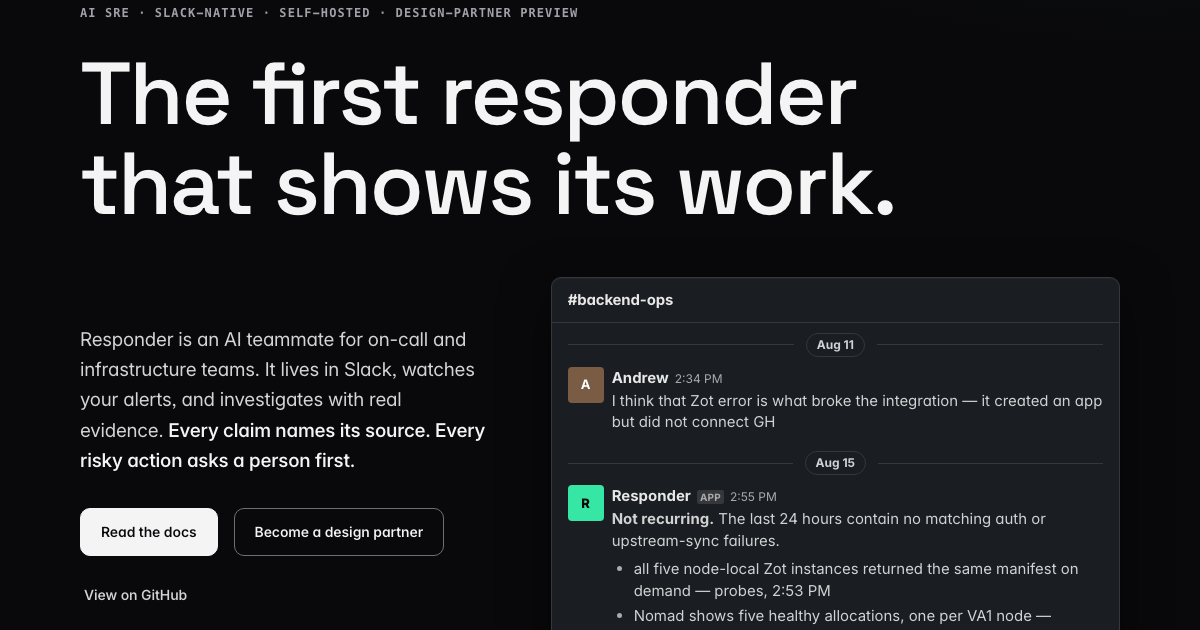
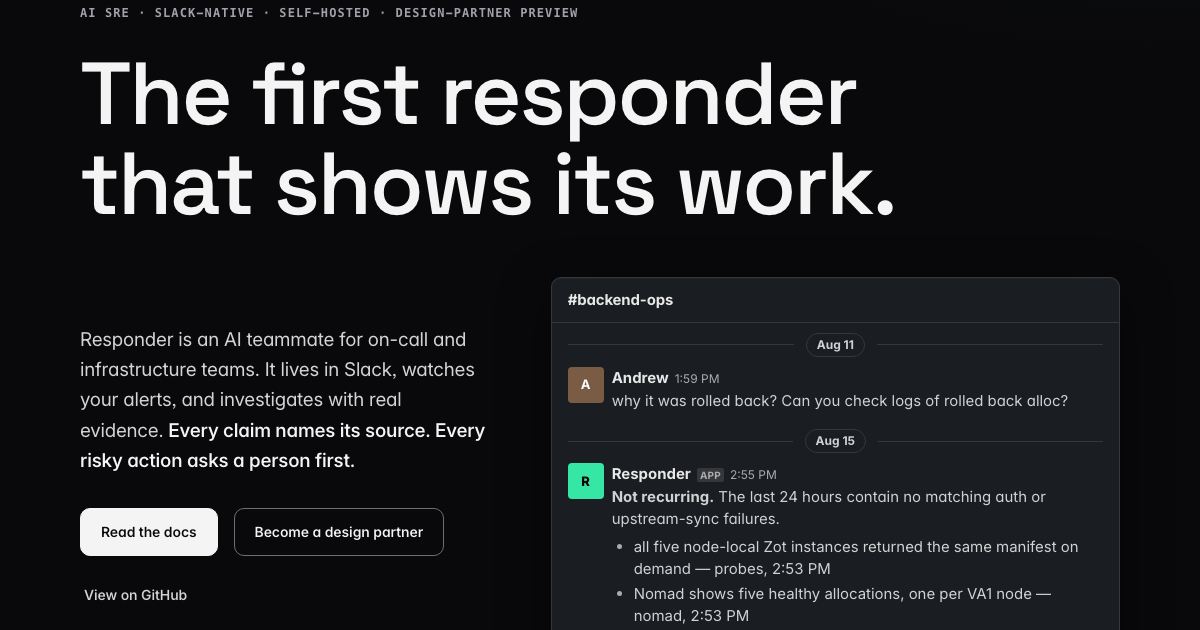
The story starts where the operator said it starts
The client pointed at the thread's actual root — the Slack permalink
for the rollback in backend-ops — and the record filled in a better
arc than the one shipped an hour ago. It opens with a deploy rolling
back and nobody knowing why; a cc pointing at the notice above the
thread (which Responder reads, because threads point at things); the
first ask at 1:59 PM and an answer honest enough to explain why there
are no logs at all. The humans chase a timeout, the CI build, static
analysis — all true, none the cause — until "Run a deep investigation
into this and find the root cause" catches the registry lying: a
misleading manifest-unknown 404 hiding "unauthorized access. check
credentials", with the one thing the evidence could not settle said
out loud. "Prepare PR to fix it" becomes draft PR #526 in minutes,
scoped so a healthy-looking readiness check can never hide this
failure again. And the three verification checks are no longer
"unprompted" — the operator asked for them in one line, which is both
the truth and the better story: one sentence became three scheduled
episodes and a four-day-later "not recurring."

Two invented attributions died in this commit: the teammate's quotes
moved to prose because their name is not ours to guess, and the
frame-note stopped claiming the machine doubted itself unasked.

Changed region(s): [[0.4625, 0.7238, 0.8942, 0.9952], [0.4933, 0.573, 0.925, 0.6937], [0.6783, 0.6937, 0.7092, 0.754]]

diff --git a/site/index.html b/site/index.html
@@ -79,7 +79,7 @@
              colors, carrying the exchange the whole page is about. The page
              annotates it from outside; inside is only what Slack would show. -->
         <figure class="hero-slack" aria-labelledby="hero-cap">
-          <figcaption id="hero-cap" class="vh">A real Slack exchange from the author&rsquo;s own infrastructure, condensed. In channel backend-ops on August 11, Andrew writes: I think that Zot error is what broke the integration &mdash; it created an app but did not connect GH. Four days later, on August 15, Responder &mdash; marked as an app &mdash; reports: not recurring. The last 24 hours contain no matching auth or upstream-sync failures. All five node-local Zot instances returned the same manifest on an on-demand sync, and Nomad shows five healthy allocations, one per node. Watching stays scheduled; this was the last of three checks it booked for itself.</figcaption>
+          <figcaption id="hero-cap" class="vh">A real Slack thread from the author&rsquo;s own infrastructure, condensed. In channel backend-ops on August 11, after a deploy rolled back, Andrew asks: why was it rolled back? Can you check logs of the rolled back alloc? Four days later, on August 15, Responder &mdash; marked as an app &mdash; reports: not recurring. The last 24 hours contain no matching auth or upstream-sync failures. All five node-local Zot instances returned the same manifest on an on-demand sync, and Nomad shows five healthy allocations, one per node. It was the last of three checks the operator asked for in one line.</figcaption>
 
           <div class="slack-frame stagger" aria-hidden="true">
             <div class="slack-head">
@@ -91,8 +91,8 @@
             <div class="slack-msg">
               <span class="slack-av av-at">A</span>
               <div class="slack-said">
-                <p class="slack-meta"><span class="slack-who">Andrew</span> <span class="slack-ts">2:34 PM</span></p>
-                <p class="slack-text">I think that Zot error is what broke the integration &mdash; it created an app but did not connect GH</p>
+                <p class="slack-meta"><span class="slack-who">Andrew</span> <span class="slack-ts">1:59 PM</span></p>
+                <p class="slack-text">why it was rolled back? Can you check logs of rolled back alloc?</p>
               </div>
             </div>
 
@@ -114,7 +114,7 @@
             </div>
           </div>
 
-          <p class="frame-note"><b>episode ep_26ac116f</b> <span>attempt 1 &middot; 5&#8202;m&#8202;31&#8202;s &middot; the fourth day&rsquo;s check, kept without being asked&#8202;<a class="fnmark" href="#fn-1" aria-describedby="fn-1">1</a></span></p>
+          <p class="frame-note"><b>episode ep_26ac116f</b> <span>attempt 1 &middot; 5&#8202;m&#8202;31&#8202;s &middot; the fourth day&rsquo;s check, reported exactly where asked&#8202;<a class="fnmark" href="#fn-1" aria-describedby="fn-1">1</a></span></p>
         </figure>
       </div>
     </div>
@@ -138,46 +138,82 @@
       <div class="section-head">
         <p class="beat-time-inline">One episode &middot; Aug 11 &ndash; Aug 15</p>
         <h2 id="how-h">Four days, taken apart.</h2>
-        <p>The exchange above really happened. Here is the episode behind it, beat by beat &mdash; a person&rsquo;s hunch, a fix, and a machine that scheduled its own doubt and reported back four days later. Every id, time, and sentence below is from the record.</p>
+        <p>The exchange above really happened. Here is the thread behind it, beat by beat &mdash; a rollback nobody understood, the wrong suspects, a registry caught lying, a fix, and a machine that reported back four days later because one line asked it to. Every id, time, and sentence below is from the record.</p>
       </div>
 
       <div class="steps">
 
-        <!-- Beat 1: a person reports it -->
-        <article class="step beatline" id="b-report">
-          <span class="beat-sub" aria-hidden="true"><span class="tick"></span><time>Aug 11 &middot; 19:47Z</time></span>
+        <!-- Beat 1: the rollback and the first answer -->
+        <article class="step beatline" id="b-rollback">
+          <span class="beat-sub" aria-hidden="true"><span class="tick"></span><time>Aug 11 &middot; 18:59Z</time></span>
           <div class="step-text">
-            <p class="step-num">Aug 11 &middot; 2:47 PM</p>
-            <h3>It starts with a hunch</h3>
-            <p>Zot &mdash; the container registry &mdash; had been failing upstream syncs with &ldquo;unauthorized access. check credentials&rdquo;, and the GitHub integration broke. Andrew said what he suspected. One &ldquo;Start task&rdquo; later, an engineering episode opened in an isolated fork: fix the authentication, and make the failure detectable.</p>
+            <p class="step-num">Aug 11 &middot; 1:59 PM</p>
+            <h3>A deploy rolls back. Someone asks why.</h3>
+            <p>A Pyke deployment rolled back and nobody knew why. The thread starts with a cc pointing at the notice above it&#8202;<a class="fnmark" href="#fn-1" aria-describedby="fn-1">1</a> &mdash; Responder reads what a thread points at, not just the thread. Then the first ask, and the first honest answer: the failure record even explains why there are no logs.</p>
           </div>
-          <figure class="mock" aria-labelledby="mock-open-cap">
-            <figcaption id="mock-open-cap" class="vh">The engineering episode, as the control plane records it: fix Zot Artifact Registry authentication and detection. Repository tenant-infra, in an isolated fork, with repository-write authority and no production access.</figcaption>
-            <div class="mock-head" aria-hidden="true"><span class="dot warn"></span><span>episode</span><span class="surface-tag">&middot; control plane</span><span class="right">opened 19:47:21Z</span></div>
-            <div class="mock-body" aria-hidden="true">
-              <div class="mem">
-                <div class="mem-row"><span class="dot warn"></span><span><span class="k">goal</span><span class="v">Fix Zot Artifact Registry authentication and detection <i>engineering task</i></span></span></div>
-                <div class="mem-row"><span class="dot idle"></span><span><span class="k">authority</span><span class="v">tenant-infra, isolated fork <i>repository-write &middot; no production access</i></span></span></div>
+          <figure class="mock-slack" aria-labelledby="mock-ask-cap">
+            <figcaption id="mock-ask-cap" class="vh">The first exchange, real and condensed. Andrew, at 1:59 PM: why was it rolled back? Can you check logs of the rolled back alloc? Responder, marked as an app, at 2:01 PM: Pyke rolled back because image tag 5a56520 does not exist in the registry. All three replacement allocations failed with manifest unknown, exhausted their retries, and never started &mdash; so there are no app logs; the Nomad driver events are the failure record. Nomad restored version 8 and its allocation is running.</figcaption>
+            <div class="slack-frame" aria-hidden="true">
+              <div class="slack-msg">
+                <span class="slack-av av-at">A</span>
+                <div class="slack-said">
+                  <p class="slack-meta"><span class="slack-who">Andrew</span> <span class="slack-ts">1:59 PM</span></p>
+                  <p class="slack-text">why it was rolled back? Can you check logs of rolled back alloc?</p>
+                </div>
+              </div>
+              <div class="slack-msg">
+                <span class="slack-av av-app">R</span>
+                <div class="slack-said">
+                  <p class="slack-meta"><span class="slack-who">Responder</span> <span class="slack-app">app</span> <span class="slack-ts">2:01 PM</span></p>
+                  <p class="slack-text">Pyke rolled back because image tag <strong>5a56520&hellip; doesn&rsquo;t exist in the registry.</strong> All three replacement allocations failed with &ldquo;manifest unknown&rdquo;, exhausted their retries, and never started &mdash; so there are no app logs; the Nomad driver events are the failure record.</p>
+                  <p class="slack-text slack-dim">Nomad restored version 8 and its allocation is running.</p>
+                </div>
               </div>
             </div>
-            <p class="mock-note" aria-hidden="true"><span class="tag">rule</span> <span class="note">one trigger, one episode, one record</span> <span class="prov">real episode &mdash; condensed&#8202;<span class="fnmark">2</span></span></p>
+            <p class="mock-note" aria-hidden="true"><span class="tag">shape</span> <span class="note">even &ldquo;there are no logs&rdquo; comes with the reason</span> <span class="prov">real thread &mdash; condensed&#8202;<span class="fnmark">2</span></span></p>
           </figure>
         </article>
 
-        <!-- Beat 2: the fix is a draft PR -->
-        <article class="step flip beatline" id="b-fix">
+        <!-- Beat 2: the deep dive catches the registry lying -->
+        <article class="step flip beatline" id="b-rootcause">
+          <span class="beat-sub" aria-hidden="true"><span class="tick"></span><time>19:40Z</time></span>
+          <div class="step-text">
+            <p class="step-num">Aug 11 &middot; 2:40 PM</p>
+            <h3>The thread suspects CI. The deep dive catches the registry lying.</h3>
+            <p>The humans chased reasonable suspects &mdash; a timeout, the CI build, a static-analysis failure in another job. All true observations. None the cause. Then: &ldquo;Run a deep investigation into this and find the root cause.&rdquo; The registry&rsquo;s 404 was hiding an auth failure &mdash; and the one thing the evidence could not settle is said out loud.</p>
+          </div>
+          <figure class="mock-slack" aria-labelledby="mock-dive-cap">
+            <figcaption id="mock-dive-cap" class="vh">The deep-dive verdict, real and condensed. Root cause: broken Zot authentication to Artifact Registry &mdash; not CI, not static analysis. CI pushed the image; when Nomad requested the new uncached tag, Zot failed upstream with unauthorized access, check credentials, and returned a misleading manifest-unknown 404. Older cached tags explain why another deployment could still succeed. And the honest limit: the available evidence cannot distinguish a deleted service-account key from a removed IAM grant.</figcaption>
+            <div class="slack-frame" aria-hidden="true">
+              <div class="slack-msg">
+                <span class="slack-av av-app">R</span>
+                <div class="slack-said">
+                  <p class="slack-meta"><span class="slack-who">Responder</span> <span class="slack-app">app</span> <span class="slack-ts">2:44 PM</span></p>
+                  <p class="slack-text"><strong>Root cause: broken Zot authentication to Artifact Registry</strong> &mdash; not the CI build, not static analysis. CI pushed the image; when Nomad requested the new uncached tag, Zot failed upstream with &ldquo;unauthorized access. check credentials&rdquo; and returned the misleading &ldquo;manifest unknown&rdquo; 404.</p>
+                  <p class="slack-text">Older cached tags explain why another deployment could still succeed.</p>
+                  <p class="slack-text slack-dim">The evidence can&rsquo;t distinguish a deleted service-account key from a removed IAM grant &mdash; rotation is the next move either way.</p>
+                </div>
+              </div>
+            </div>
+            <p class="mock-note" aria-hidden="true"><span class="tag">rule</span> <span class="note">what it cannot tell you is part of the answer</span> <span class="prov">real thread &mdash; condensed&#8202;<span class="fnmark">2</span></span></p>
+          </figure>
+        </article>
+
+        <!-- Beat 3: "Prepare PR to fix it" -->
+        <article class="step beatline" id="b-fix">
           <span class="beat-sub" aria-hidden="true"><span class="tick"></span><time>19:50:46Z</time></span>
           <div class="step-text">
             <p class="step-num">Aug 11 &middot; 2:50 PM</p>
-            <h3>The fix is a pull request, not a deploy</h3>
-            <p>Three and a half minutes after the episode opened, the fix was published &mdash; as a draft PR in tenant-infra. Responder cannot merge it and cannot deploy it. A person reviewed and merged; Nomad rolled the registry to job v8 the next evening. The boundary is the feature.</p>
+            <h3>&ldquo;Prepare PR to fix it&rdquo;</h3>
+            <p>Five words from the operator became an engineering episode in an isolated fork, and minutes later a draft PR in tenant-infra: credential propagation, plus an upstream-auth signal so a healthy-looking readiness check can never hide this failure again. Responder cannot merge it and cannot deploy it. A person did; Nomad rolled job v8 the next evening.</p>
           </div>
           <figure class="mock" aria-labelledby="mock-pr-cap">
-            <figcaption id="mock-pr-cap" class="vh">The publication record: repository tenantcorp/tenant-infra, pull request number 526, state published, at 19:50:46Z on August 11. The change rolled as Nomad job version 8 at 20:16:55Z on August 12, after the PR merged &mdash; merged by a person, deployed by the pipeline, neither by Responder.</figcaption>
+            <figcaption id="mock-pr-cap" class="vh">The publication record: repository tenantcorp/tenant-infra, pull request 526, state published, 19:50:46Z on August 11. Scope, from the episode&rsquo;s own summary: reliable Zot credential propagation plus an upstream-auth signal; credential rotation and apply remain separate operational steps. The change rolled as Nomad job version 8 on August 12 at 20:16:55Z, after a person merged the PR.</figcaption>
             <div class="mock-head" aria-hidden="true"><span class="dot good"></span><span>publication</span><span class="surface-tag">&middot; control plane</span><span class="right">19:50:46Z</span></div>
             <div class="mock-body" aria-hidden="true">
               <div class="mem">
                 <div class="mem-row"><span class="dot good"></span><span><span class="k">draft PR</span><span class="v">tenantcorp/tenant-infra #526 <i>published &middot; a person merges</i></span></span></div>
+                <div class="mem-row"><span class="dot idle"></span><span><span class="k">scope</span><span class="v">credential propagation + an upstream-auth signal <i>rotation and apply stay operational steps</i></span></span></div>
                 <div class="mem-row"><span class="dot idle"></span><span><span class="k">rollout</span><span class="v">Nomad job v8, Aug 12 &middot; 20:16:55Z, after the merge <i>deployment successful</i></span></span></div>
               </div>
             </div>
@@ -185,24 +221,24 @@
           </figure>
         </article>
 
-        <!-- Beat 3: it schedules its own doubt -->
-        <article class="step beatline" id="b-doubt">
-          <span class="beat-sub" aria-hidden="true"><span class="tick"></span><time>23:31Z</time></span>
+        <!-- Beat 4: one line becomes three scheduled checks -->
+        <article class="step flip beatline" id="b-doubt">
+          <span class="beat-sub" aria-hidden="true"><span class="tick"></span><time>23:12Z</time></span>
           <div class="step-text">
-            <p class="step-num">Aug 11 &middot; 6:31 PM</p>
-            <h3>It schedules its own doubt</h3>
-            <p>A fix that compiles is not a fix that holds. Unprompted, Responder booked three one-time checks &mdash; &ldquo;the same local time tomorrow, the following day, and four days from now; each will inspect fresh Zot evidence and report here.&rdquo; Each check is a full episode with its own record.</p>
+            <p class="step-num">Aug 11 &middot; 6:12 PM</p>
+            <h3>One line becomes three scheduled checks</h3>
+            <p>&ldquo;Can you check tomorrow and in 3 days zot logs to make sure this issue is gone and report here.&rdquo; Responder turned the sentence into three one-time schedules &mdash; the same local time tomorrow, the following day, and four days out &mdash; each shown for confirmation before it existed, each a full episode when it ran.</p>
           </div>
           <figure class="mock" aria-labelledby="mock-sched-cap">
-            <figcaption id="mock-sched-cap" class="vh">Three one-time verification schedules, prepared by Responder and confirmed by an operator: August 12, August 13, and August 15, each at the same local time, each inspecting fresh Zot logs and manifests for the exact failure that was fixed.</figcaption>
+            <figcaption id="mock-sched-cap" class="vh">Three one-time verification schedules, prepared from the operator&rsquo;s one-line request and confirmed before creation: August 12, August 13, and August 15, each at the same local time, each inspecting fresh Zot logs and manifests for the exact failure that was fixed, each reporting back into the same thread.</figcaption>
             <div class="mock-head" aria-hidden="true"><span class="dot good"></span><span>schedules</span><span class="surface-tag">&middot; control plane</span><span class="right">3 checks &middot; one-time</span></div>
             <div class="mock-body" aria-hidden="true">
               <div class="mem">
-                <div class="mem-row"><span class="dot good"></span><span><span class="k">aug 12 &middot; aug 13</span><span class="v">inspect fresh Zot evidence, report in-channel <i>ran &middot; clean</i></span></span></div>
-                <div class="mem-row"><span class="dot warn"></span><span><span class="k">aug 15</span><span class="v">the four-day recheck &mdash; the one above <i>operator-confirmed</i></span></span></div>
+                <div class="mem-row"><span class="dot good"></span><span><span class="k">aug 12 &middot; aug 13</span><span class="v">inspect fresh Zot evidence, report in-thread <i>ran &middot; clean</i></span></span></div>
+                <div class="mem-row"><span class="dot warn"></span><span><span class="k">aug 15</span><span class="v">the four-day recheck &mdash; the one above <i>operator-confirmed before it existed</i></span></span></div>
               </div>
             </div>
-            <p class="mock-note" aria-hidden="true"><span class="tag">stance</span> <span class="note">built to be doubted &mdash; starting with itself</span> <span class="prov">real episode &mdash; condensed&#8202;<span class="fnmark">2</span></span></p>
+            <p class="mock-note" aria-hidden="true"><span class="tag">stance</span> <span class="note">a fix is not done until it is checked on a delay</span> <span class="prov">real episode &mdash; condensed&#8202;<span class="fnmark">2</span></span></p>
           </figure>
         </article>
 
@@ -473,7 +509,7 @@
   <section class="band footnotes-band" aria-label="Footnotes">
     <div class="wrap">
       <div class="footnotes">
-        <p id="fn-1"><span class="m">1</span> A real episode from the author’s own infrastructure — ids, times, texts, the PR number, and the correction are from the record. Messages are condensed for the page; nothing is invented.</p>
+        <p id="fn-1"><span class="m">1</span> A real thread from the author’s own infrastructure — ids, times, texts, and the PR number are from the record; messages are condensed, nothing is invented. The rollback notice at the thread’s root is older than message-body retention, which is itself the documented behavior: bodies expire in a day, the episode record does not.</p>
         <p id="fn-2"><span class="m">2</span> Control-plane panels are shown in the product’s own theme and condensed from the episode’s real record. The trace UI is the one surface on this page that is not Slack, and you host it yourself.</p>
       </div>
     </div>
